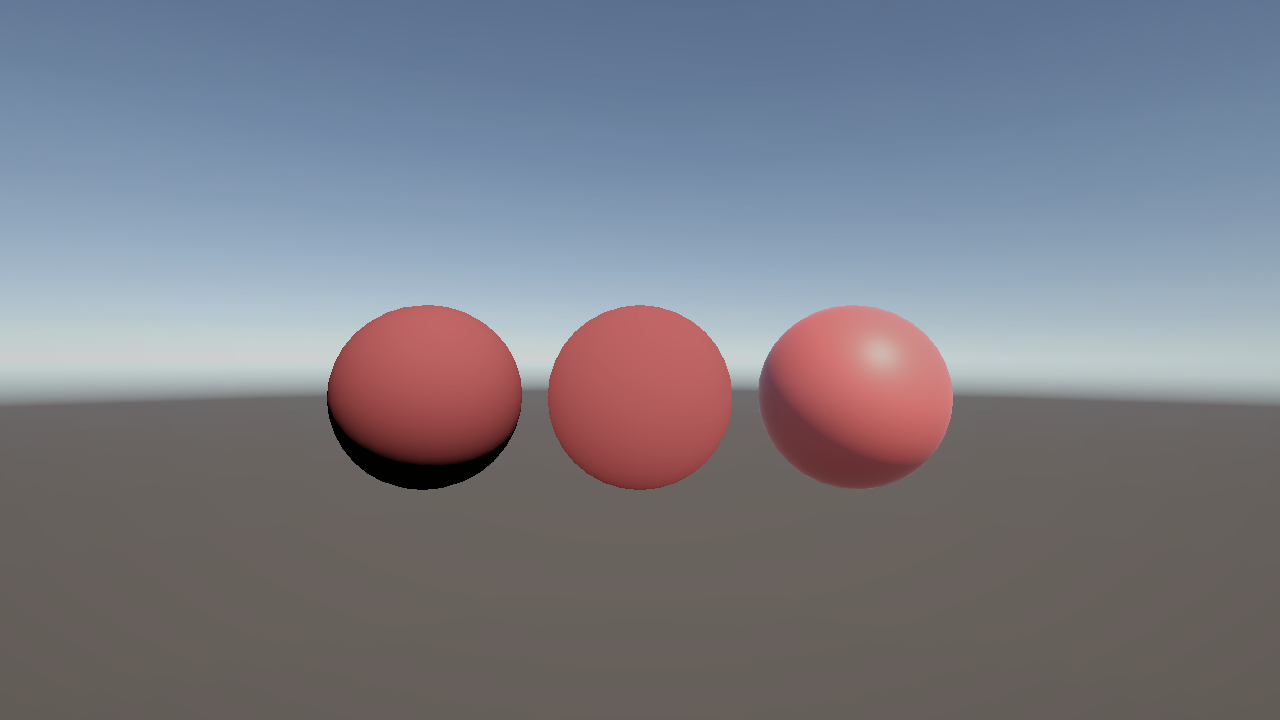
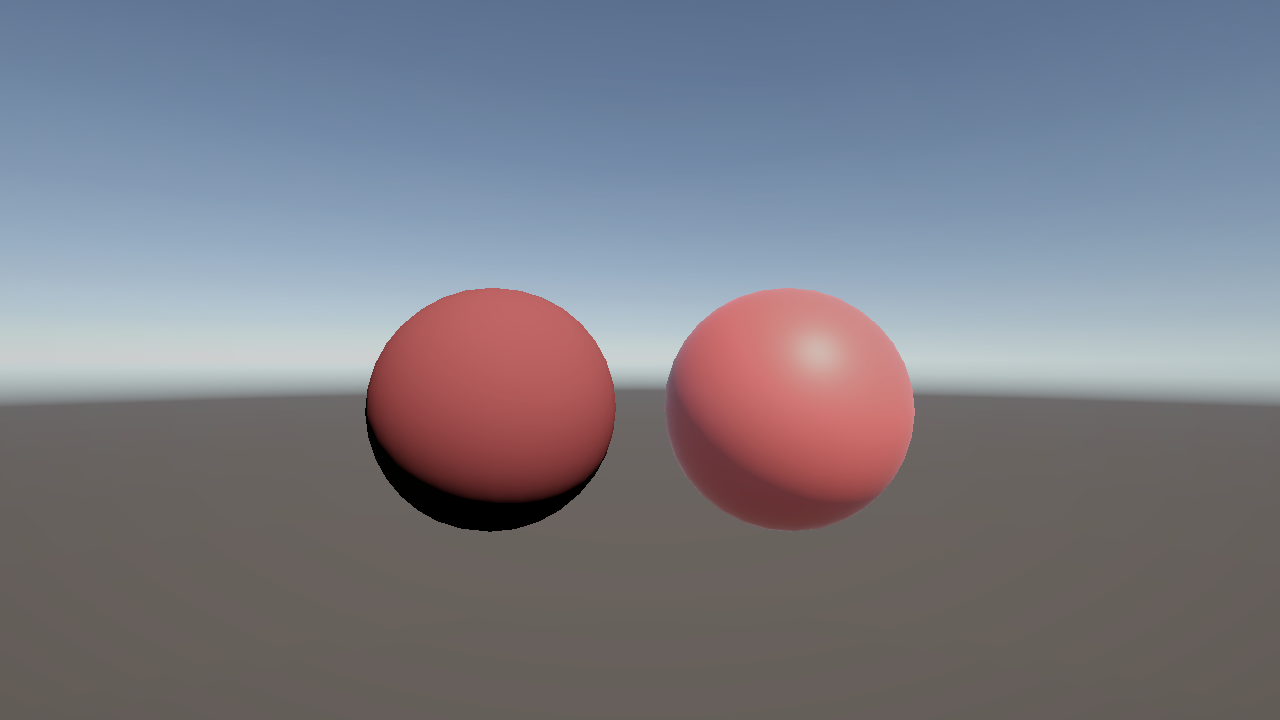
見本と同じ球2つに変更

Changed region(s): [[0.25, 0.3972, 0.75, 0.7639]]

diff --git a/README.md b/README.md
@@ -5,13 +5,10 @@
 
 ![第4回の結果](result.png)
 
-左から順に
 - 左：Unlit Shader Graphで作ったランバート拡散反射（Main Light Direction と Normal Vector(World) の内積 × -1 → Maximum(0) → Albedo を乗算）
-- 中央：追加で試したハーフランバート（ランバートの値を ×0.5+0.5 して 0〜1 に収める）
 - 右：Lit Shader Graph（Albedo を Base Color につないだだけ）
 
-- 工夫した点：ランバートとの比較用にハーフランバートの球を追加した。ランバートは光が当たらない側が真っ黒になるが、ハーフランバートは裏側まで明るさがなだらかに変化するので、影の部分がつぶれにくい。Litは環境光やスペキュラ、自己影が入るので、自作の2つと比べると影側も少し明るく、ハイライトも出ている。
-- Directional Light はデフォルトの角度（X:50, Y:-30）のままで、見本と同じ見た目になるようにした。
+- 工夫した点：ランバートを改造してハーフランバート（×0.5+0.5 して 0〜1 に収める）のシェーダーグラフも作ってみた（Assets/Shaders/HalfLambert.shadergraph）。ランバートは光が当たらない側が真っ黒になるが、ハーフランバートは裏側まで明るさがなだらかに変化するので、影の部分がつぶれにくかった。Litは環境光やスペキュラ、自己影が入るので、ランバートと比べると影側も少し明るく、ハイライトも出ている。
 
 # 進め方
 
